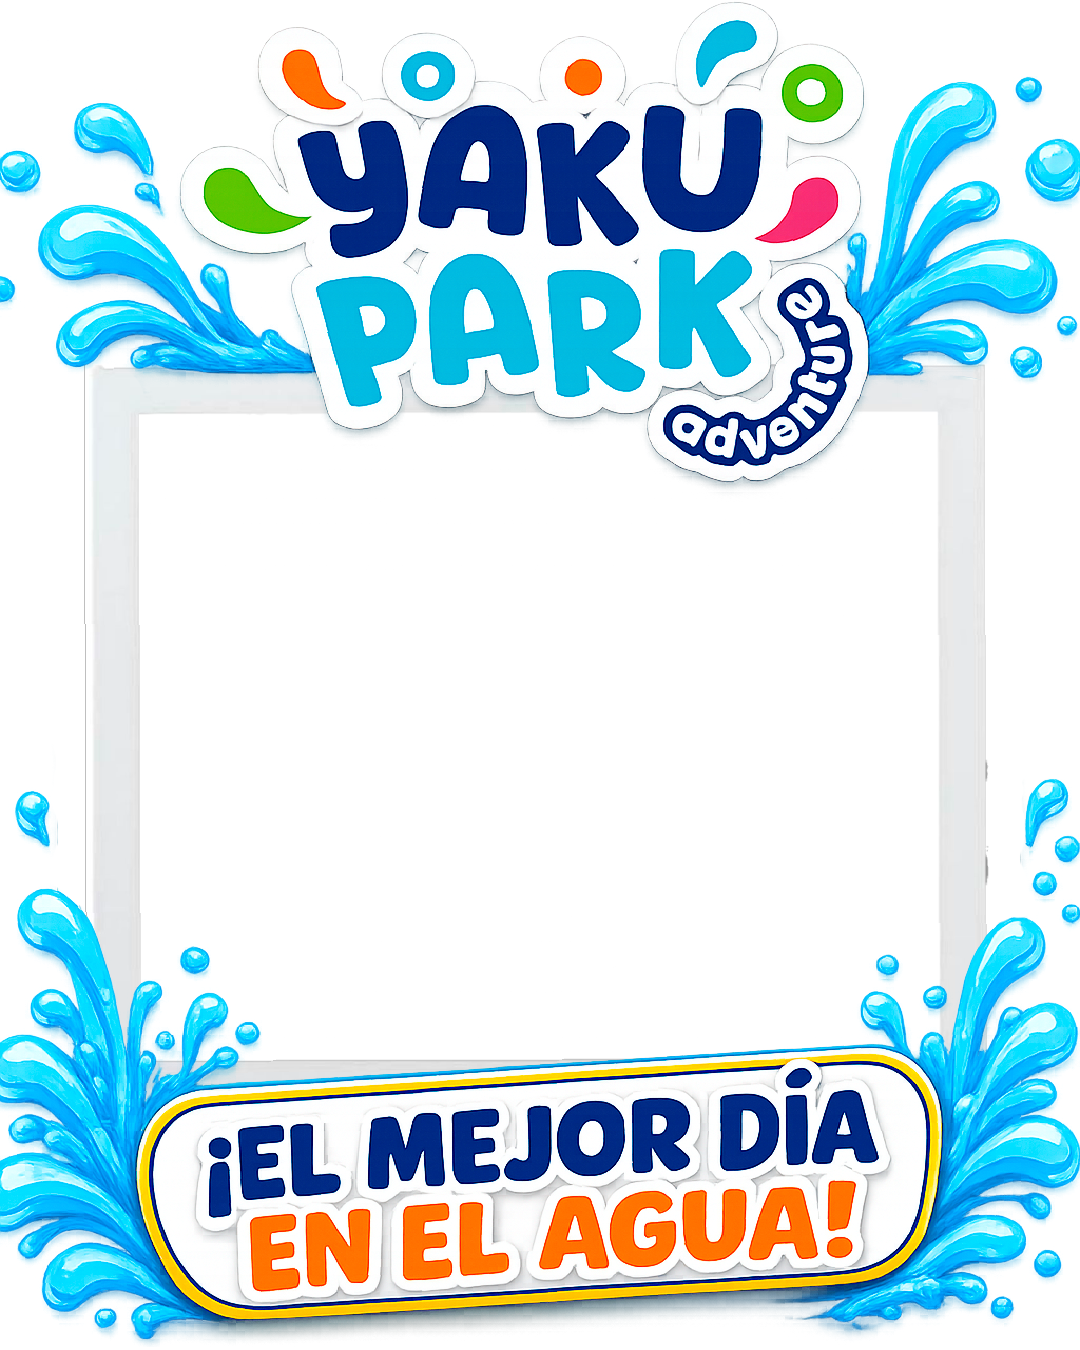
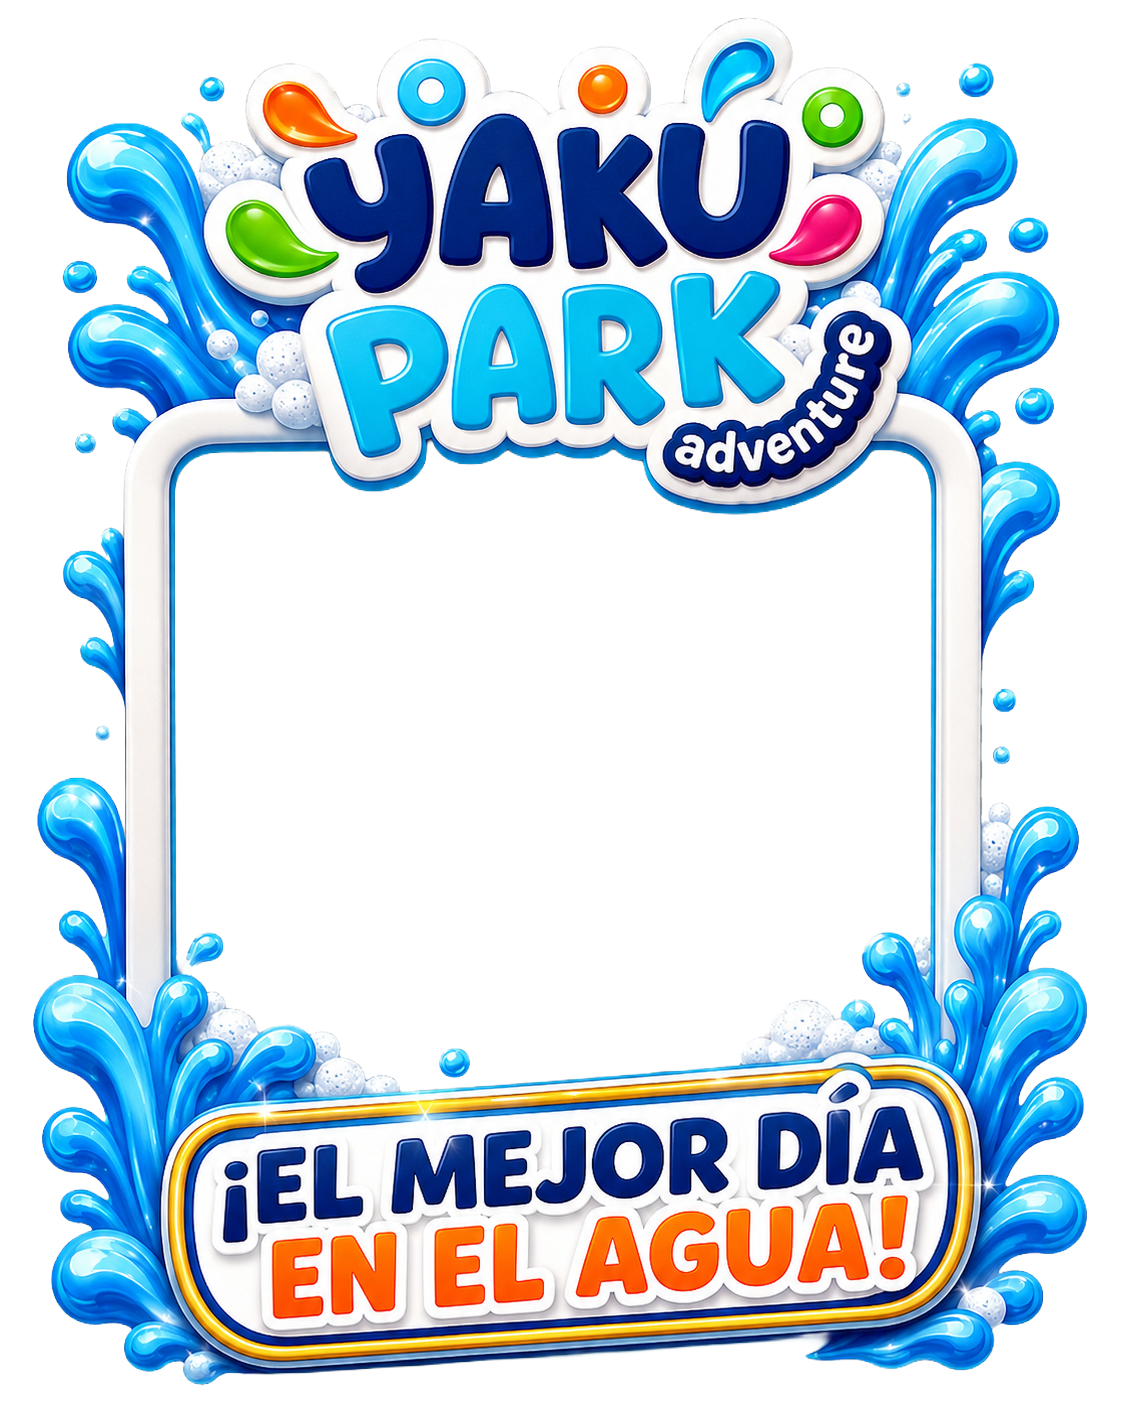
feat: dejar solo plantillas souvenir yakupark

diff --git a/src/utils/photoMontageTemplates.js b/src/utils/photoMontageTemplates.js
@@ -1,7 +1,7 @@
 export const PHOTO_MONTAGE_TEMPLATES = [
   {
     id: 'souvenir-yakupark',
-    name: 'Souvenir Yakupark',
+    name: 'Souvenir Yakupark 1',
     description: 'Un recuerdo acuatico con marco, olas y sello Yakupark.',
     type: 'souvenir',
     accentLabel: 'Souvenir',
@@ -9,44 +9,40 @@ export const PHOTO_MONTAGE_TEMPLATES = [
     overlayUrl: '/photo-montages/overlays/souvenir-yakupark-overlay.png',
   },
   {
-    id: 'giant-wave',
-    name: 'Ola gigante',
-    description: 'Una composicion heroica con energia de ola, espuma y aventura acuática.',
-    type: 'wave',
-    accentLabel: 'Aventura intensa',
-    backgroundUrl: '/photo-montages/backgrounds/ola-gigante.jpg',
+    id: 'souvenir-yakupark-2',
+    name: 'Souvenir Yakupark 2',
+    description: 'Una variante premium con un marco Yakupark diferente.',
+    type: 'souvenir',
+    accentLabel: 'Souvenir',
+    backgroundUrl: '/photo-montages/backgrounds/souvenir-yakupark-bg.png',
+    overlayUrl: '/photo-montages/overlays/souvenir-yakupark-overlay1.png',
   },
   {
-    id: 'dolphins',
-    name: 'Delfines',
-    description: 'Un recuerdo alegre con siluetas marinas, burbujas y movimiento suave.',
-    type: 'dolphins',
-    accentLabel: 'Recuerdo familiar',
-    backgroundUrl: '/photo-montages/backgrounds/delfines.jpg',
+    id: 'souvenir-yakupark-3',
+    name: 'Souvenir Yakupark 3',
+    description: 'Una variante premium con un marco Yakupark diferente.',
+    type: 'souvenir',
+    accentLabel: 'Souvenir',
+    backgroundUrl: '/photo-montages/backgrounds/souvenir-yakupark-bg.png',
+    overlayUrl: '/photo-montages/overlays/souvenir-yakupark-overlay2.png',
   },
   {
-    id: 'sunset',
-    name: 'Atardecer marino',
-    description: 'Un look cálido de atardecer con brillo premium y ambiente de verano.',
-    type: 'sunset',
-    accentLabel: 'Postal premium',
-    backgroundUrl: '/photo-montages/backgrounds/atardecer-marino.jpg',
+    id: 'souvenir-yakupark-4',
+    name: 'Souvenir Yakupark 4',
+    description: 'Una variante premium con un marco Yakupark diferente.',
+    type: 'souvenir',
+    accentLabel: 'Souvenir',
+    backgroundUrl: '/photo-montages/backgrounds/souvenir-yakupark-bg.png',
+    overlayUrl: '/photo-montages/overlays/souvenir-yakupark-overlay4.png',
   },
   {
-    id: 'custom-background-1',
-    name: 'Fondo premium 1',
-    description: 'Fondo real preparado para montaje premium.',
-    type: 'premium',
-    accentLabel: 'Nuevo',
-    backgroundUrl: '/photo-montages/backgrounds/fondo1.png',
-  },
-  {
-    id: 'custom-background-2',
-    name: 'Fondo premium 2',
-    description: 'Fondo real preparado para montaje premium.',
-    type: 'premium',
-    accentLabel: 'Nuevo',
-    backgroundUrl: '/photo-montages/backgrounds/fondo2.png',
+    id: 'souvenir-yakupark-5',
+    name: 'Souvenir Yakupark 5',
+    description: 'Una variante premium con un marco Yakupark diferente.',
+    type: 'souvenir',
+    accentLabel: 'Souvenir',
+    backgroundUrl: '/photo-montages/backgrounds/souvenir-yakupark-bg.png',
+    overlayUrl: '/photo-montages/overlays/souvenir-yakupark-overlay5.png',
   },
 ];
 
